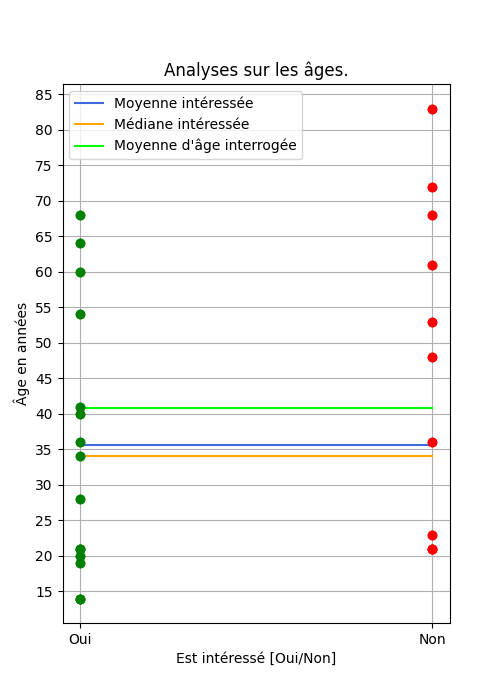
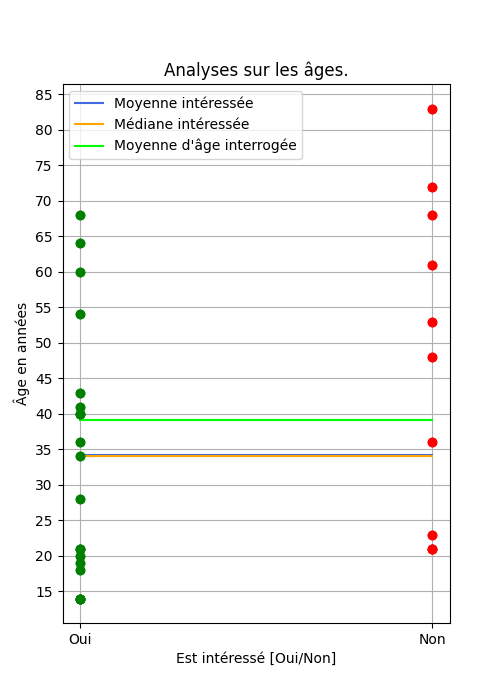
[Fix] Données actualisées, index remaniés car des changement sur la collecte du formulaire ont été effectués

Changed region(s): [[0.15, 0.54, 0.87, 0.6], [0.18, 0.63, 0.84, 0.66], [0.15, 0.81, 0.18, 0.84]]

diff --git a/analytics.py b/analytics.py
@@ -4,16 +4,16 @@ import os.path
 
 import matplotlib.pyplot as plot
 
-age_index = 0
-interested_index = 1
-known_qr_index = 3
-has_smartphone_index = 4
-where_to_buy_index = 5
-price_index = 6
-plants_wanted_index = 7
-email_index = 10
-name_index = 11
-date_index = 12
+age_index = 3
+interested_index = 4
+known_qr_index = 6
+has_smartphone_index = 7
+where_to_buy_index = 8
+price_index = 9
+plants_wanted_index = 10
+email_index = 11
+name_index = 12
+date_index = 13
 
 
 def get_average_age(rows):
@@ -264,7 +264,7 @@ La médiane d'âge intéressée est de {median_age_interested} ans.
 ![Graphique du lieu de vente voulus](lieux-de-vente.png)
 ![Graphique des types de plantes voulues](types-de-plante.png)
 ![Graphique du % de personnes qui connaissent les qr codes.](connaissent-qr.png)
-![Graphique du % de personnes intéressées par tranches d'âge.](connaissent-qr.png)
-![Graphique d'analyses sur les ages.](tranches-interessees.png)
+![Graphique du % de personnes intéressées par tranches d'âge.](tranches-interessees.png)
+![Graphique d'analyses sur les ages.](analyses-ages.png)
         """
         generate_summary(f'Résultats générés le {date}', summary, f'Données récoltées du {data_period}')
